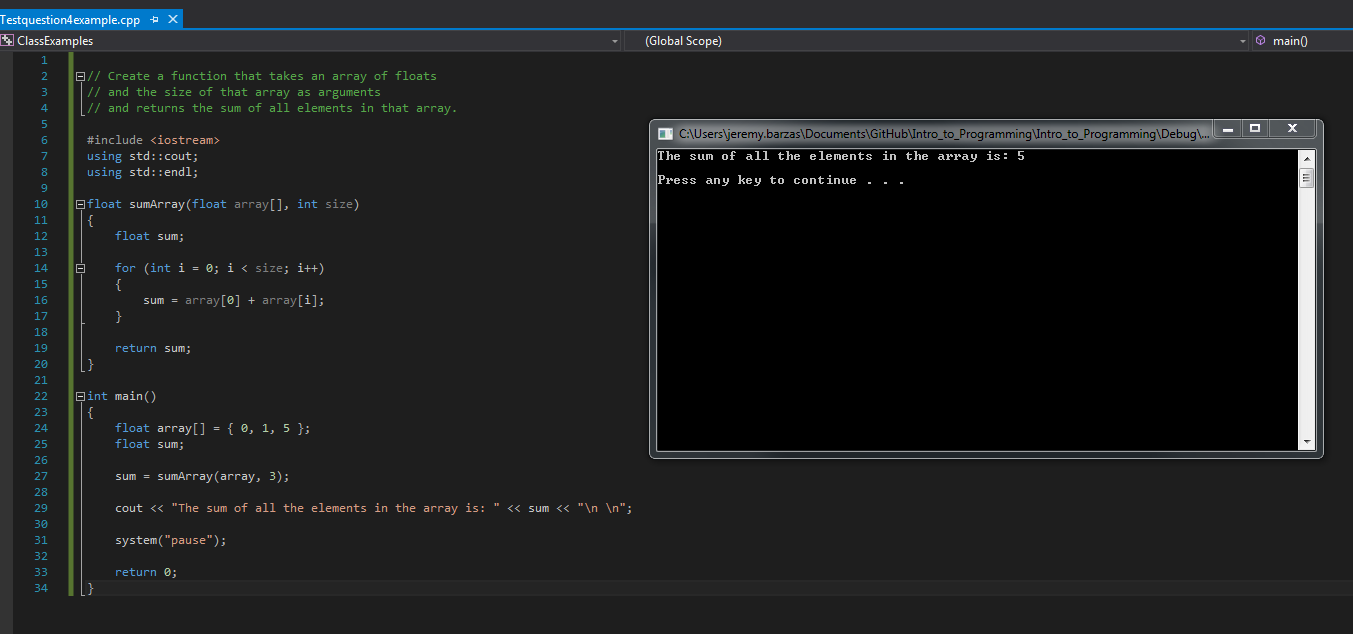
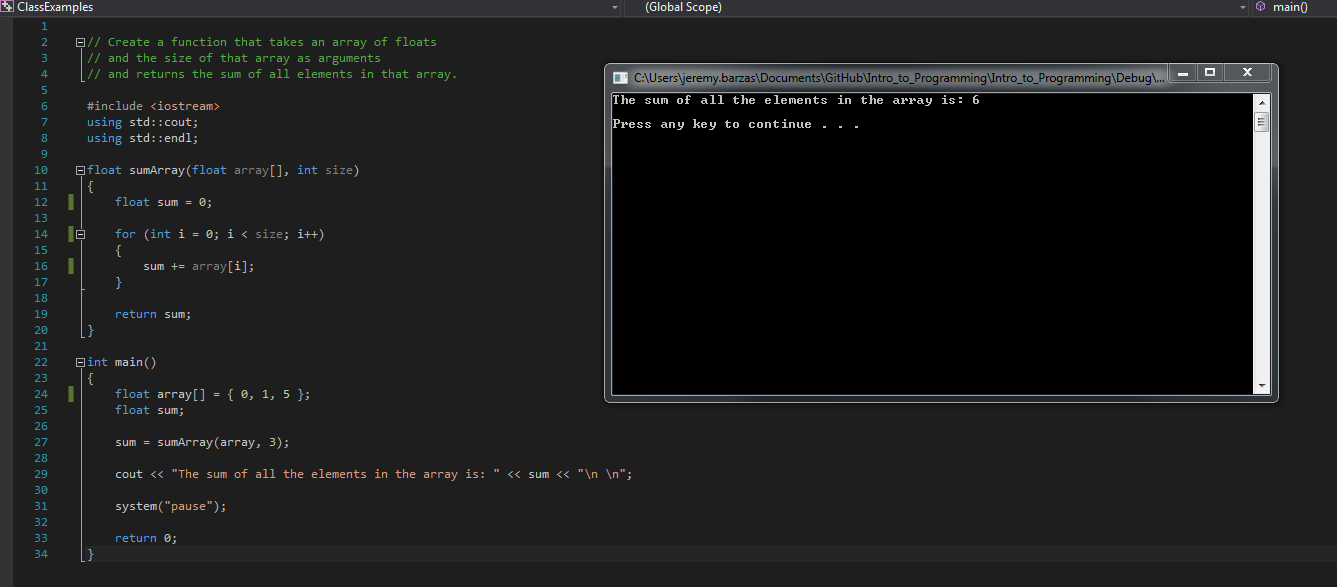
Progresss towards completing exercises

diff --git a/Intro_to_Programming/ClassExamples/Testquestion4example.cpp b/Intro_to_Programming/ClassExamples/Testquestion4example.cpp
@@ -9,11 +9,11 @@ using std::endl;
 
 float sumArray(float array[], int size)
 {
-	float sum;
+	float sum = 0;
 
 	for (int i = 0; i < size; i++)
 	{
-		sum = array[0] + array[i];
+		sum = sum + array[i];
 	}
 
 	return sum;
